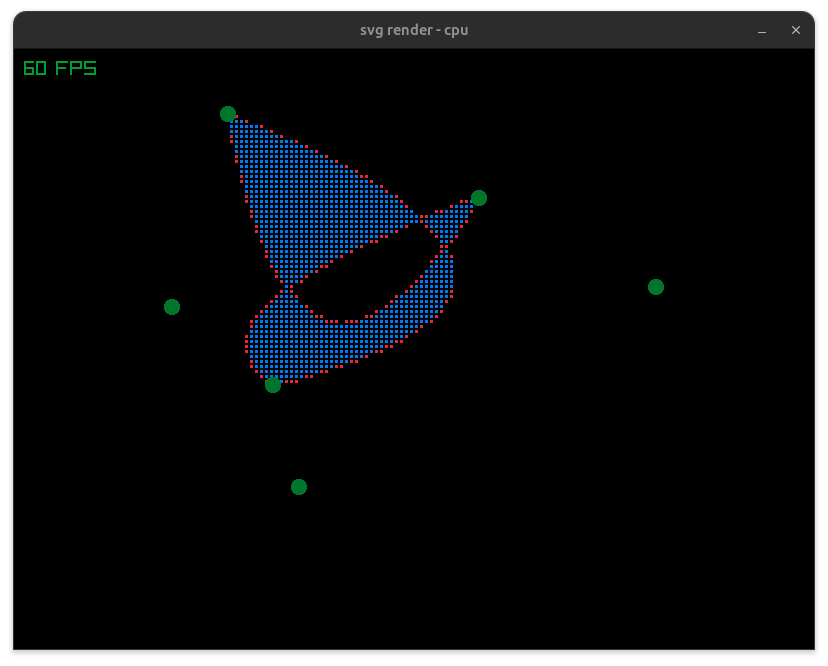
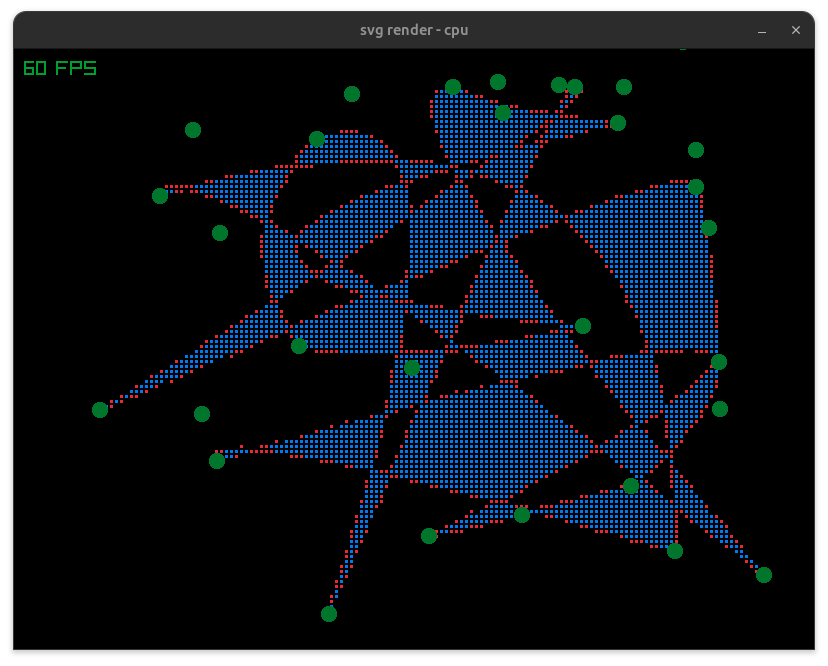
Removed limit on number of points; updated README thumbnail

diff --git a/main.c b/main.c
@@ -12,6 +12,7 @@ typedef struct {
     int count, capacity;
 } Points;
 
+#define CELL_FILL_FACTOR 0.5f
 #define CELL_W 5
 #define FILL_COLOR BLUE
 #define STROKE_COLOR RED
@@ -69,15 +70,15 @@ int qbezier_count_roots_horz(Vector2 p0, Vector2 c1, Vector2 p2, Vector2 ray)
     return count;
 }
 
-void render_grid(Vector2 tl, Vector2 cell_size, f32 factor)
+void render_grid(Vector2 tl, Vector2 cell_size)
 {
-    assert(0.f <= factor);
-    assert(factor <= 1.f);
+    assert(0.f <= CELL_FILL_FACTOR);
+    assert(CELL_FILL_FACTOR <= 1.f);
 
     Vector2 pos = tl;
     for (int r = 0; r < grid_r; r++) {
         for (int c = 0; c < grid_c; c++) {
-            Vector2 size = Vector2Scale(cell_size, factor);
+            Vector2 size = Vector2Scale(cell_size, CELL_FILL_FACTOR);
             Vector2 p = Vector2Add(pos, Vector2Scale(size, 0.5f));
             DrawRectangleV(p, size, pixels[TO_INDEX(r, c)]);
             pos.x += cell_size.x;
@@ -91,16 +92,13 @@ void control_points(void)
 {
     Vector2 mouse_pos = GetMousePosition();
     if (IsMouseButtonPressed(MOUSE_BUTTON_LEFT)) {
-        if (pts.count < 6) {
-            arena_da_append(&a, &pts, mouse_pos);
-        } else {
-            for (int i = 0; drag_ind == -1 && i < pts.count; i++) {
-                if (CheckCollisionPointCircle(mouse_pos, pts.items[i], pt_r)) {
-                    drag_ind = i;
-                    break;
-                }
+        for (int i = 0; drag_ind == -1 && i < pts.count; i++) {
+            if (CheckCollisionPointCircle(mouse_pos, pts.items[i], pt_r)) {
+                drag_ind = i;
+                break;
             }
         }
+        if (drag_ind == -1) arena_da_append(&a, &pts, mouse_pos);
     }
 
     if (IsMouseButtonUp(MOUSE_BUTTON_LEFT) && drag_ind >= 0) {
@@ -119,7 +117,9 @@ void clear_grid(void)
 
 void fill_spline_evenodd_grid(void)
 {
-    if (pts.count != 6) return;
+    if (pts.count <= 3) return;
+    if (pts.count % 2 != 0) return;
+
     int count = 0;
     for (int r = 0; r < grid_r; r++) {
         for (int c = 0; c < grid_c; c++) {
@@ -164,7 +164,6 @@ int main(void)
 
     f32 w = (f32)GetScreenWidth();
     f32 h = (f32)GetScreenHeight();
-    f32 fac = 0.5f;
     grid_c = (int)(w / cell_size.x);
     grid_r = (int)(h / cell_size.y);
     printf("Grid size: %d x %d\n", grid_c, grid_r);
@@ -177,22 +176,6 @@ int main(void)
     pixels = arena_alloc(&a, pixels_count);
     clear_grid();
 
-    Vector2 temp[] = {
-        {214.000, 65.000},
-        {142.000, 196.000},
-        {259.000, 336.000},
-        {468.000, 310.000},
-        {465.000, 149.000},
-        {361.000, 60.000},
-    };
-    for (int i = 0; i < 6; i++) {
-        arena_da_append(&a, &pts, temp[i]);
-    }
-    printf("Point Count: %d\n", pts.count);
-
-    f32 dt = 0.075f;
-    // Vector2 marker_size = Vector2Scale(cell_size, 0.3f);
-    f32 marker_size = 5.f;
     while (!WindowShouldClose()) {
         control_points();
         clear_grid();
@@ -201,22 +184,13 @@ int main(void)
 
         BeginDrawing(); {
             ClearBackground(BLACK);
-            render_grid(tl, cell_size, fac);
+            render_grid(tl, cell_size);
             for (int i = 0; i < pts.count; i++) {
                 DrawCircleV(pts.items[i], pt_r, MARKER_COLOR);
             }
             DrawFPS(10, 10);
         } EndDrawing();
     }
-
-#if 0
-    printf("{\n");
-    for (int i = 0; i < pts.count; i++) {
-        Vector2 p = pts.items[i];
-        printf("    {%.3f, %.3f},\n", p.x, p.y);
-    }
-    printf("}\n");
-#endif
 
     CloseWindow();
     arena_free(&a);
